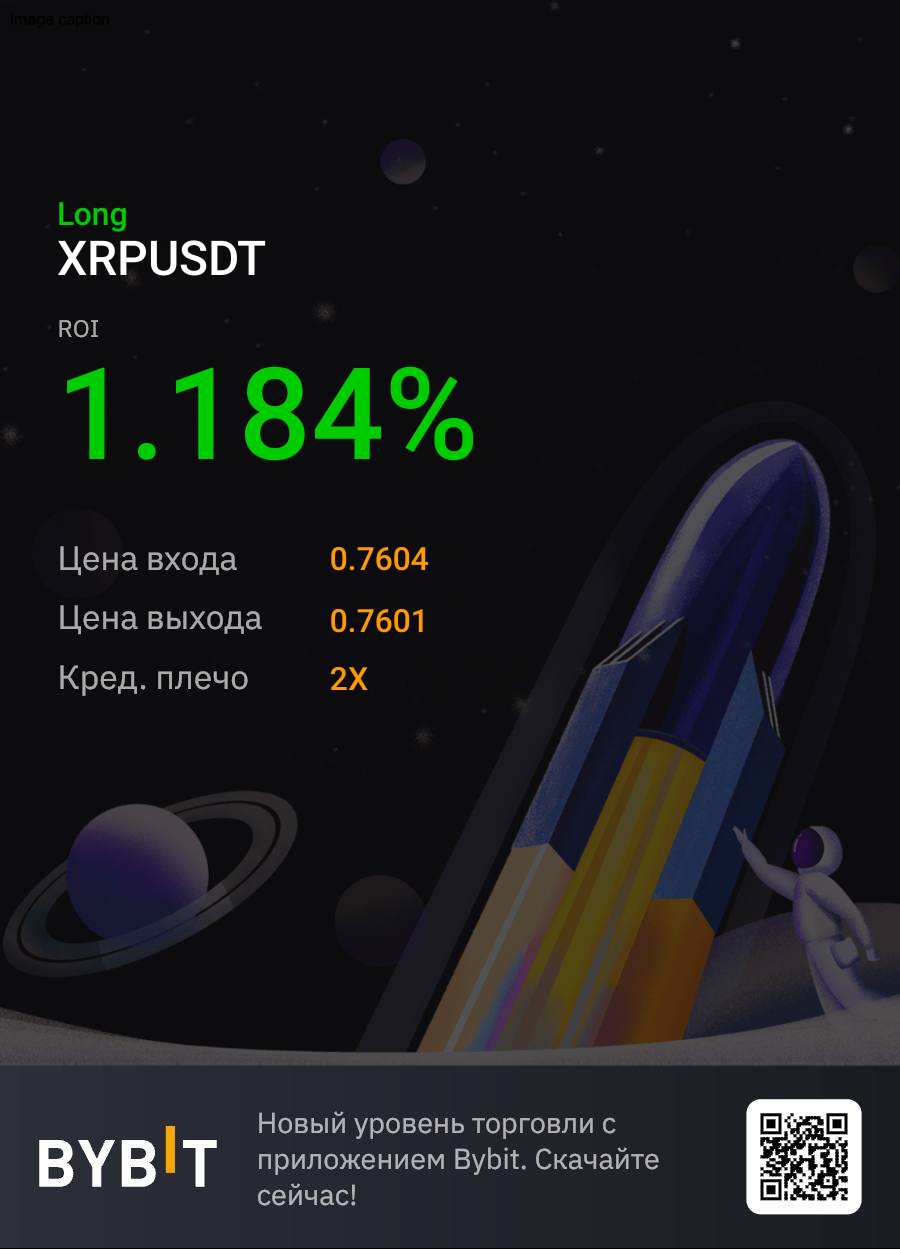
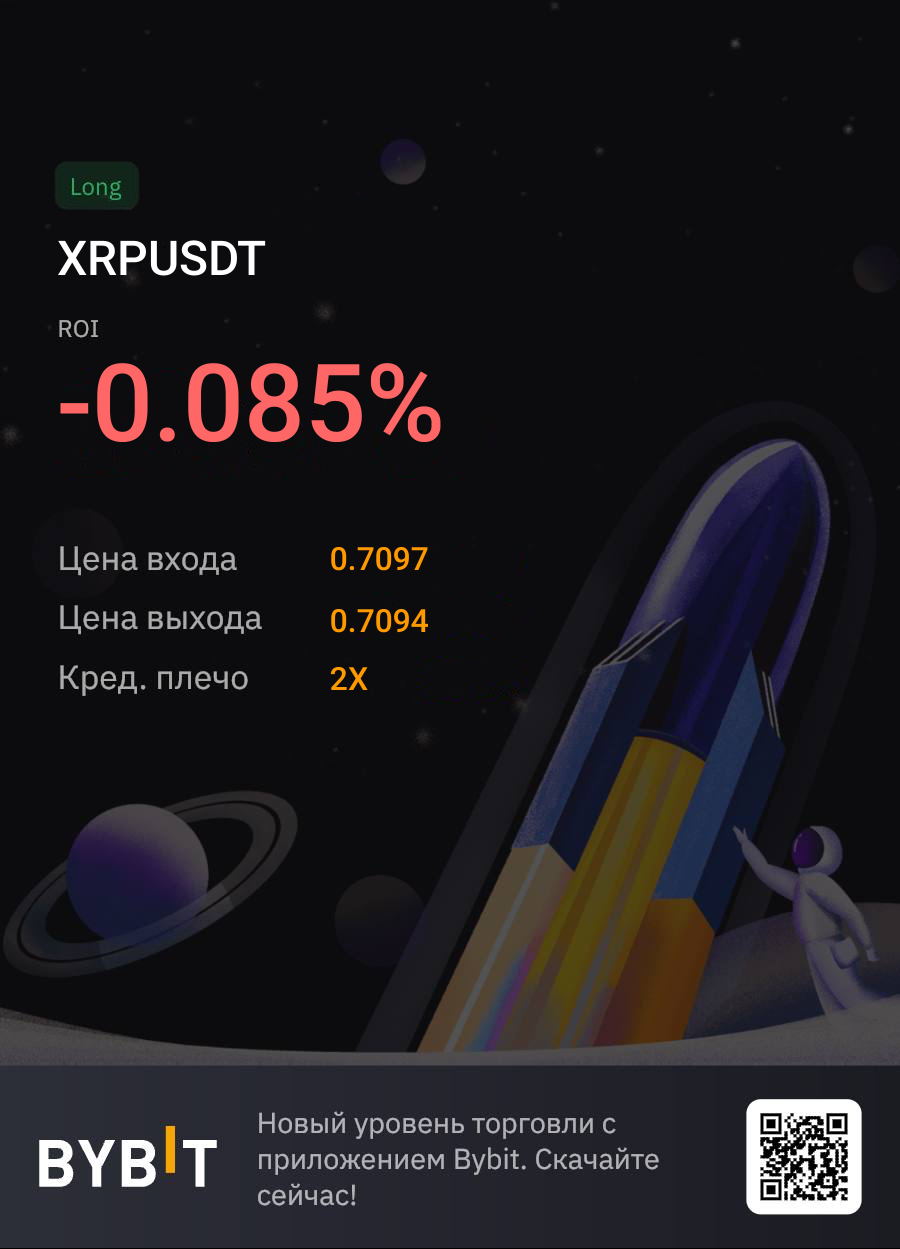
Fixes

Changed region(s): [[0.0622, 0.281, 0.5289, 0.3747], [0.0622, 0.1249, 0.1556, 0.1873], [0.4044, 0.4371, 0.4978, 0.4996]]

diff --git a/index.js b/index.js
@@ -198,9 +198,9 @@ bybitBot.websockets.futureOrder(orderMessage => {
                             // let roi = ((Math.abs(order.end_pnl - order.init_pnl)) / (order.size * prevLongPosition.entry_price)) * 100;
                             roi = ((orderData.last_exec_price - prevLongPosition.entry_price) / (orderData.last_exec_price / prevLongPosition.leverage)) * 100;
 
-                            if (order.end_pnl < order.init_pnl) {
-                                roi *= -1;
-                            }
+                            // if (order.end_pnl < order.init_pnl) {
+                            //     roi *= -1;
+                            // }
 
                             bots.forEach(async botData => {
                                 let signalMessage;
@@ -238,8 +238,10 @@ bybitBot.websockets.futureOrder(orderMessage => {
                                         leverage: prevLongPosition.leverage,
                                         pnl: roi.toFixed(3)
                                     });
-                                    botData.bot.sendMessage(botData.chatId_group, signalMessage);
-                                    botData.bot.sendPhoto(botData.chatId_group, './output.png');
+                                    // botData.bot.sendMessage(botData.chatId_group, signalMessage);
+                                    botData.bot.sendPhoto(botData.chatId_group, './output.png', {
+                                        caption: signalMessage
+                                    });
                                 }
 
                                 if (typeof botData.chatId_channel !== 'undefined') {
@@ -262,9 +264,9 @@ bybitBot.websockets.futureOrder(orderMessage => {
                             // let roi = ((Math.abs(order.end_pnl - order.init_pnl)) / (order.size * prevShortPosition.entry_price)) * 100;
                             roi = ((orderData.last_exec_price - prevShortPosition.entry_price) / (orderData.last_exec_price / prevShortPosition.leverage)) * 100;
 
-                            if (order.end_pnl < order.init_pnl) {
-                                roi *= -1;
-                            }
+                            // if (order.end_pnl < order.init_pnl) {
+                            //     roi *= -1;
+                            // }
 
                             bots.forEach(async botData => {
                                 let signalMessage;
@@ -302,8 +304,10 @@ bybitBot.websockets.futureOrder(orderMessage => {
                                         leverage: prevShortPosition.leverage,
                                         pnl: roi.toFixed(3)
                                     });
-                                    botData.bot.sendMessage(botData.chatId_group, signalMessage);
-                                    botData.bot.sendPhoto(botData.chatId_group, './output.png');
+                                    // botData.bot.sendMessage(botData.chatId_group, signalMessage);
+                                    botData.bot.sendPhoto(botData.chatId_group, './output.png', {
+                                        caption: signalMessage
+                                    });
                                 }
 
                                 if (typeof botData.chatId_channel !== 'undefined') {
@@ -334,9 +338,9 @@ bybitBot.websockets.futureOrder(orderMessage => {
                                     // roi = ((Math.abs(order.end_pnl - order.init_pnl)) / (order.size * shortPosition.entry_price)) * 100;
                                     //New roi
                                     roi = ((orderData.last_exec_price - shortPosition.entry_price) / (orderData.last_exec_price / shortPosition.leverage)) * 100;
-                                    if (order.end_pnl < order.init_pnl) {
-                                        roi *= -1;
-                                    }
+                                    // if (order.end_pnl < order.init_pnl) {
+                                    //     roi *= -1;
+                                    // }
 
                                     if (orderData.create_type == 'CreateByTakeProfit') {
                                         signalMessage = botData.parser.parseSignal({
@@ -363,14 +367,22 @@ bybitBot.websockets.futureOrder(orderMessage => {
                                             ...orderData
                                         }, "PARTIALLY");
                                     }
+
+                                    await ImageGenearator.new('Short', {
+                                        symbol: orderData.symbol,
+                                        open: prevShortPosition.entry_price,
+                                        close: orderData.last_exec_price,
+                                        leverage: prevShortPosition.leverage,
+                                        pnl: roi.toFixed(3)
+                                    });
                                 } else {
                                     order = orders[orderData.symbol].long;
 
                                     // roi = ((Math.abs(order.end_pnl - order.init_pnl)) / (order.size * longPosition.entry_price)) * 100;
                                     roi = ((orderData.last_exec_price - longPosition.entry_price) / (orderData.last_exec_price / longPosition.leverage)) * 100;
-                                    if (order.end_pnl < order.init_pnl) {
-                                        roi *= -1;
-                                    }
+                                    // if (order.end_pnl < order.init_pnl) {
+                                    //     roi *= -1;
+                                    // }
 
                                     if (orderData.create_type == 'CreateByTakeProfit') {
                                         signalMessage = botData.parser.parseSignal({
@@ -397,12 +409,23 @@ bybitBot.websockets.futureOrder(orderMessage => {
                                             ...orderData
                                         }, "PARTIALLY");
                                     }
+
+                                    await ImageGenearator.new('Short', {
+                                        symbol: orderData.symbol,
+                                        open: prevLongPosition.entry_price,
+                                        close: orderData.last_exec_price,
+                                        leverage: prevLongPosition.leverage,
+                                        pnl: roi.toFixed(3)
+                                    });
                                 }
 
                                 console.log('Signal message: ', signalMessage);
 
                                 if (typeof botData.chatId_group !== 'undefined') {
-                                    botData.bot.sendMessage(botData.chatId_group, signalMessage);
+                                    // botData.bot.sendMessage(botData.chatId_group, signalMessage);
+                                    botData.bot.sendPhoto(botData.chatId_group, './output.png', {
+                                        caption: signalMessage
+                                    });
                                 }
 
                                 if (typeof botData.chatId_channel !== 'undefined') {

diff --git a/config.js b/config.js
@@ -22,12 +22,12 @@ module.exports = {
         messageClosePartially: "🏁 Закрываем {{close_percent}}% позиции по {{symbol}}\
             \nМоя цена входа {{price_open}}\
             \nМоя цена закрытия {{price_close}}\
-            \nPnL {{roi}}%",
+            \nROI {{roi}}%",
         messageClose: "🏁 Закрываем всю позицию по {{symbol}} \
             \nМоя цена входа {{price_open}}\
             \nМоя цена закрытия {{price_close}}\
-            \nPnL {{roi}}%",
-        messageCancel: "Отменяем ордер на {{cancel_type}} {{symbol}} ({{side}} сделка)\
+            \nROI {{roi}}%",
+        messageCancel: "Отменяем лимитный ордер на {{cancel_type}} {{symbol}} ({{side}} сделка)\
             \nОрдер ставили на уровень {{price_open}}",
         messageStopLossChange: "{{order_status}} по {{symbol}}\
             \nНовый стоп ставим на уровень {{stop_loss}}",
@@ -43,11 +43,11 @@ module.exports = {
         messageCloseByTakeProfit: "🏁 Сработал тейк-профит. Закрыл {{close_percent}}% позиции по {{symbol}}\
             \nМоя цена входа {{price_open}}\
             \nМоя цена закрытия {{price_close}}\
-            \nPnL {{roi}}%",
+            \nROI {{roi}}%",
         messageCloseByStopLoss: "🏁 Сработал стоп-лосс. Закрыл {{close_percent}}% позиции по {{symbol}}\
             \nМоя цена входа {{price_open}}\
             \nМоя цена закрытия {{price_close}}\
-            \nPnL {{roi}}%",
+            \nROI {{roi}}%",
         messagePlaceholders: {
           action: {
             buy: "🟢 Покупаем",
@@ -62,13 +62,13 @@ module.exports = {
               limit: "Лимитный",
               market: "Маркет"
             },
-            cancel_type : {
+            cancel_type: {
               long: "покупку",
               short: "продажу"
             },
             status: {
-              newBuy: "Выставляем ордер на покупку",
-              newSell: "Выставляем ордер на продажу",
+              newBuy: "Выставляем лимитный ордер на покупку",
+              newSell: "Выставляем лимитный ордер на продажу",
               partiallyClosed: "Частиное закрытие позции",
               change_order_position: "Изменение ордера",
               filled: "Исполнение ордера",

diff --git a/middleware/imageGenerator.js b/middleware/imageGenerator.js
@@ -2,7 +2,7 @@ const Jimp = require('jimp');
 
 class ImageGenearator {
     async new(signal, data) {
-        const image = await Jimp.read("./middleware/source.png");
+        const image = await Jimp.read(signal === "Long" ? "./middleware/long.png" : "./middleware/short.png");
 
         const fontWhite = await Jimp.loadFont("./middleware/fonts/Roboto-White.fnt");
         const fontOrange = await Jimp.loadFont("./middleware/fonts/Roboto-Orange.fnt");
@@ -10,12 +10,6 @@ class ImageGenearator {
         const fontGreenBig = await Jimp.loadFont("./middleware/fonts/Roboto-Green-Big.fnt");
         const fontRedSmall = await Jimp.loadFont("./middleware/fonts/RobotoRed.fnt");
         const fontRedBig = await Jimp.loadFont("./middleware/fonts/Roboto-Red-Big.fnt");
-
-        if (signal == 'Long') {
-            image.print(fontGreenSmall, 57, 195, signal);
-        } else {
-            image.print(fontRedSmall, 57, 195, signal);
-        }
 
         if (data.pnl >= 0) {
             image.print(fontGreenBig, 57, 340, data.pnl + '%');
